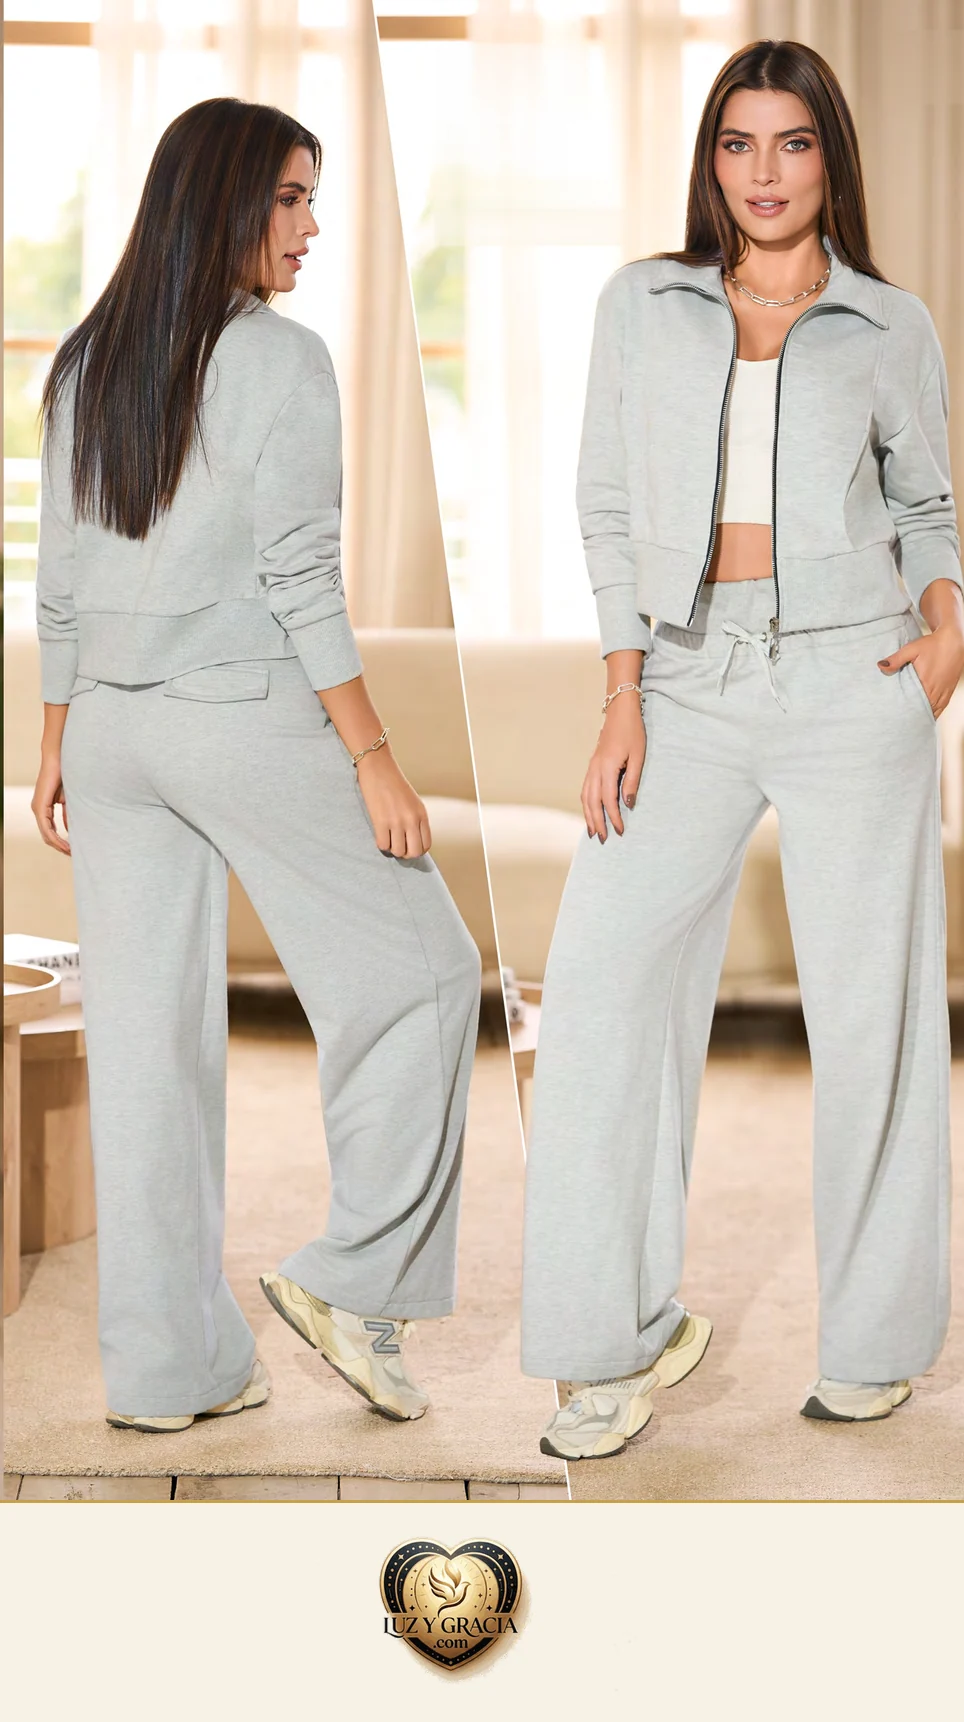
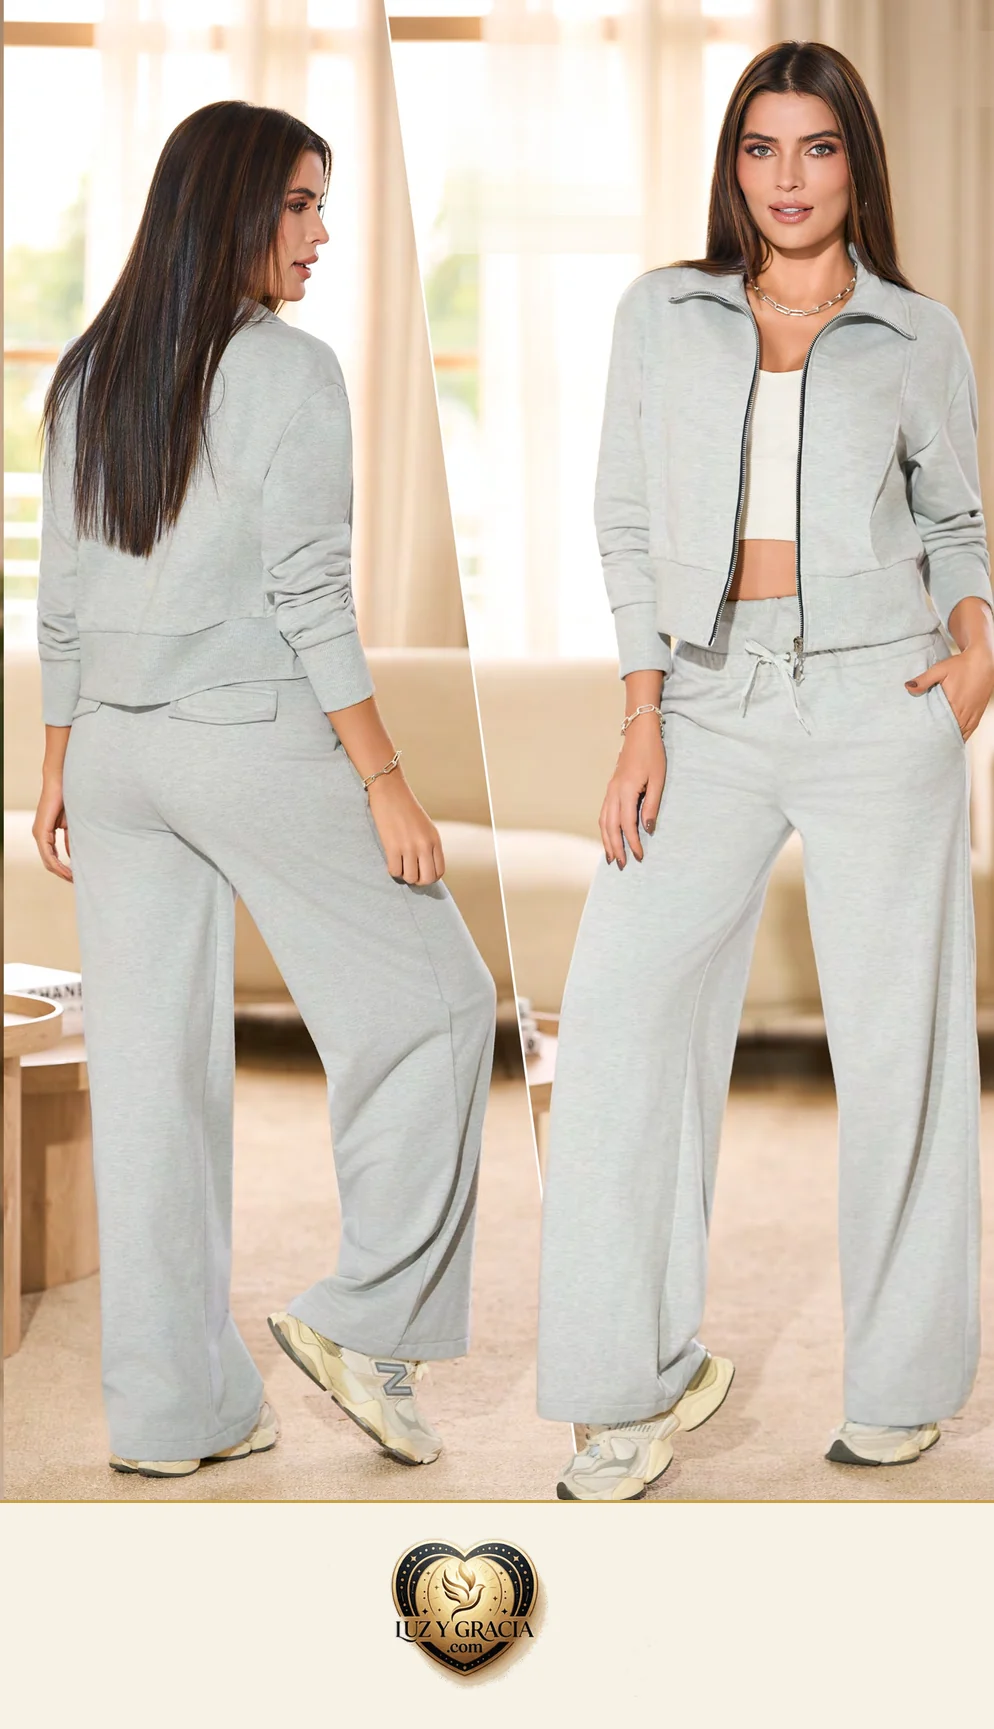
Fotos de moda mujer: recorte para no mostrar piel expuesta
El publico de la tienda es cristiano y la piel expuesta le resta. El recorte se
integra en marcar.py ANTES del sellado, para que el pie de marca quede pegado a
la foto ya recortada y el pipeline siga siendo reproducible.

Criterio: se corta por DEBAJO del bajo de la prenda —nunca por encima— para no
perder el largo, que es lo que distingue a un gaban. Donde hay dos modelos y una
va mas cubierta, el recorte lateral se queda con esa (798, 805).

12 fotos recortadas. Las 5 en las que el top corto deja el abdomen en mitad del
encuadre quedan anotadas en PIEL_SIN_SOLUCION: recortarlas obligaria a cortar la
prenda que se vende.

diff --git a/modana/marcar.py b/modana/marcar.py
@@ -29,10 +29,50 @@ def sellar(im):
     out.paste(lg, ((W-lg.width)//2, H + (franja-lg.height)//2 + 1), lg)
     return out
 
+
+# ── RECORTE DE PUDOR (7-sep-2026, orden del dueño) ────────────────────────────
+# El público de la tienda es cristiano y no le sienta bien la piel expuesta. El
+# recorte se hace ANTES de sellar para que el pie de marca quede pegado a la foto
+# ya recortada. Fracciones (x0,y0,x1,y1) sobre el crop original, elegidas a ojo:
+# se corta por DEBAJO del bajo de la prenda —nunca por encima—, para no perder el
+# largo, que es lo que distingue a un gabán. Donde hay dos modelos y una va más
+# cubierta, el recorte lateral se queda con esa.
+# Lo que el recorte NO puede resolver queda anotado en PIEL_SIN_SOLUCION.
+PUDOR = {
+ "gaban-m-798.webp":    (0.00, 0.00, 0.52, 0.55),
+ "gaban-m-800.webp":    (0.00, 0.00, 1.00, 0.52),
+ "gaban-m-801.webp":    (0.00, 0.00, 1.00, 0.72),
+ "gaban-m-802.webp":    (0.00, 0.00, 1.00, 0.60),
+ "gaban-m-803.webp":    (0.00, 0.00, 1.00, 0.62),
+ "gaban-m-804.webp":    (0.00, 0.00, 1.00, 0.62),
+ "gaban-m-805.webp":    (0.00, 0.00, 0.52, 0.52),
+ "gaban-m-806.webp":    (0.00, 0.00, 1.00, 0.48),
+ "gaban-m-807.webp":    (0.00, 0.00, 1.00, 0.47),
+ "conjunto-m-810.webp": (0.00, 0.00, 1.00, 0.97),
+ "conjunto-m-811.webp": (0.00, 0.00, 1.00, 0.97),
+ "conjunto-m-816.webp": (0.00, 0.00, 1.00, 0.74),
+}
+
+# Fotos donde el top corto deja el abdomen en mitad del encuadre: recortarlo
+# obligaría a cortar la prenda que se vende. Se dejan como están y se avisa;
+# la salida es pedirle al proveedor otra toma, no destrozar la foto.
+PIEL_SIN_SOLUCION = ["gaban-m-795.webp", "gaban-m-796.webp", "gaban-m-799.webp",
+                     "conjunto-m-809.webp", "conjunto-m-812.webp"]
+
+
+def pudor(im, archivo):
+    if archivo not in PUDOR:
+        return im
+    w, h = im.size
+    x0, y0, x1, y1 = PUDOR[archivo]
+    return im.crop((int(w*x0), int(h*y0), int(w*x1), int(h*y1)))
+
+
 if __name__ == "__main__":
     P = json.load(open("productos.json"))
     for p in P:
         im = Image.open(f"crops/p{p['pag']:02d}.png").convert("RGB")
+        im = pudor(im, p["archivo"])
         w,h = im.size
         if h>1500: im = im.resize((int(w*1500/h),1500), Image.LANCZOS)
         sellar(im).save(f"final/{p['archivo']}", "WEBP", quality=86, method=6)
